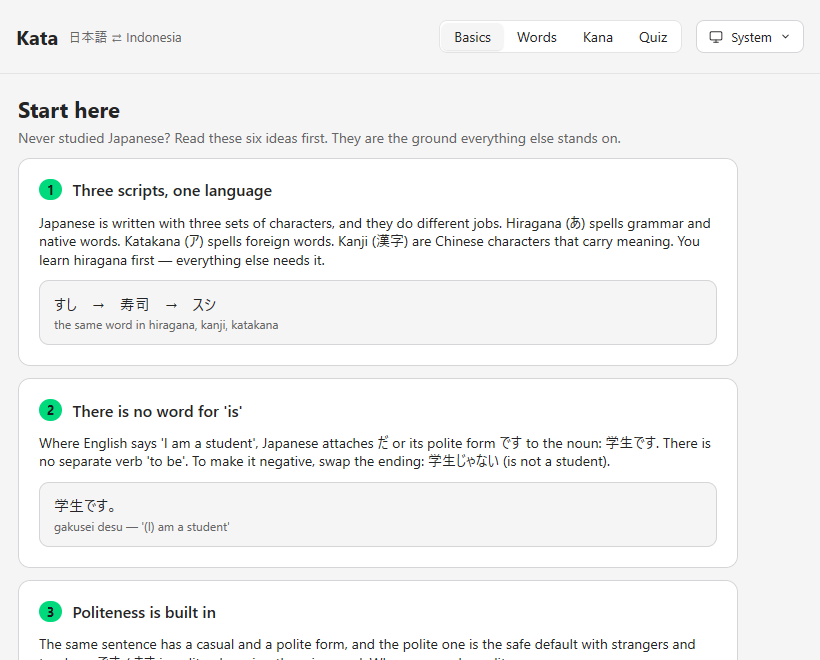
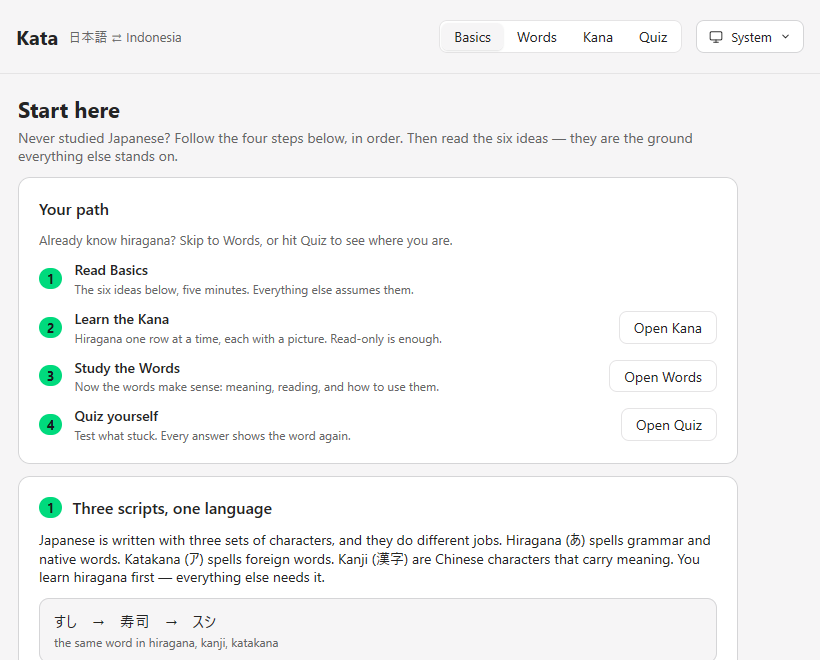
Add the where-to-start guide to the Basics page
The README's four-step path is now in the app, at the top of Basics, with a
button on each step that jumps straight to that page. A confused beginner
is one click from the right place.

Changed region(s): [[0.0305, 0.1818, 0.8841, 1.0], [0.7317, 0.5455, 0.8841, 0.6061], [0.7622, 0.4848, 0.8537, 0.5152]]

diff --git a/view_basics.go b/view_basics.go
@@ -2,21 +2,70 @@ package main
 
 import "github.com/egoist/mygo/ui"
 
-// basicsView is the first thing a beginner sees: the handful of ideas that
-// make Japanese make sense — the three scripts, that there is no word for
-// "is", politeness, particles, word order. Tae Kim's guide teaches this
-// way, by concept before vocabulary, and this page does the same.
+// basicsView is the first thing a beginner sees: where to start, then the
+// handful of ideas that make Japanese make sense — the three scripts, that
+// there is no word for "is", politeness, particles, word order. Tae Kim's
+// guide teaches this way, by concept before vocabulary, and this page does
+// the same.
 func (a *app) basicsView(c *ui.Context) {
 	t := c.Theme()
 	ui.Scroll(c).Grow(1).Padding(pageMargin, 18).Gap(12).Children(func() {
 		ui.Column(c).MaxWidth(contentMax).Gap(4).Children(func() {
 			ui.Text(c, "Start here").FontSize(22).FontWeight(650)
-			ui.Text(c, "Never studied Japanese? Read these six ideas first. "+
-				"They are the ground everything else stands on.").
+			ui.Text(c, "Never studied Japanese? Follow the four steps below, "+
+				"in order. Then read the six ideas — they are the ground "+
+				"everything else stands on.").
 				FontSize(14).TextColor(t.TextMuted)
 		})
+		a.pathCard(c)
 		for i, concept := range basics() {
 			a.conceptCard(c, i+1, concept)
+		}
+	})
+}
+
+// pathStep is one stage of the learning path: where to go, and why.
+type pathStep struct {
+	N     int
+	Title string
+	Body  string
+	Tab   int
+	Cue   string // the button label, when the step has a page to go to
+}
+
+// learningPath is the order a beginner should move through the app. It is
+// the same guide the README gives, kept here so it is in front of the
+// learner rather than in a file they will not open.
+func learningPath() []pathStep {
+	return []pathStep{
+		{1, "Read Basics", "The six ideas below, five minutes. Everything else assumes them.", TabBasics, ""},
+		{2, "Learn the Kana", "Hiragana one row at a time, each with a picture. Read-only is enough.", TabKana, "Open Kana"},
+		{3, "Study the Words", "Now the words make sense: meaning, reading, and how to use them.", TabStudy, "Open Words"},
+		{4, "Quiz yourself", "Test what stuck. Every answer shows the word again.", TabQuiz, "Open Quiz"},
+	}
+}
+
+// pathCard is the four-step guide, with a button on each step that jumps to
+// the page it names, so a confused beginner is one click from the right
+// place.
+func (a *app) pathCard(c *ui.Context) {
+	t := c.Theme()
+	card(c).MaxWidth(contentMax).Children(func() {
+		ui.Text(c, "Your path").FontSize(16).FontWeight(600)
+		hint(c, "Already know hiragana? Skip to Words, or hit Quiz to see where you are.")
+		for _, s := range learningPath() {
+			ui.Row(c).AlignItems(ui.Center).Gap(12).Children(func() {
+				ui.Textf(c, "%d", s.N).FontSize(13).FontWeight(700).
+					TextColor(t.AccentText).Background(t.Accent).
+					Radius(20).Padding(2, 8).Shrink(0)
+				ui.Column(c).Grow(1).Shrink(1).MinWidth(0).Gap(2).Children(func() {
+					ui.Text(c, s.Title).FontSize(14).FontWeight(600)
+					ui.Text(c, s.Body).FontSize(12).TextColor(t.TextMuted)
+				})
+				if s.Cue != "" {
+					ui.Button(c, s.Cue).Shrink(0).OnClick(func() { a.tab = s.Tab })
+				}
+			})
 		}
 	})
 }

diff --git a/view_test.go b/view_test.go
@@ -28,9 +28,33 @@ func TestBasicsTeachesFirst(t *testing.T) {
 	tt := ui.NewTester(a.view, 820, 660)
 	tt.Frame()
 
-	for _, want := range []string{"Start here", "Three scripts, one language", "Particles mark the job of a word"} {
+	for _, want := range []string{"Start here", "Your path", "Three scripts, one language", "Particles mark the job of a word"} {
 		if !tt.HasText(want) {
 			t.Errorf("the basics page is missing %q; texts are %q", want, tt.Texts())
+		}
+	}
+}
+
+// TestPathButtonsJumpToThePage checks the guide's buttons take a confused
+// beginner straight to the page each step names.
+func TestPathButtonsJumpToThePage(t *testing.T) {
+	for _, c := range []struct {
+		button string
+		want   int
+	}{
+		{"Open Kana", TabKana},
+		{"Open Words", TabStudy},
+		{"Open Quiz", TabQuiz},
+	} {
+		a := newTestApp()
+		a.tab = TabBasics
+		tt := ui.NewTester(a.view, 820, 660)
+		tt.Frame()
+		if err := tt.Click(c.button); err != nil {
+			t.Fatalf("no %q button: %v", c.button, err)
+		}
+		if a.tab != c.want {
+			t.Errorf("%q set tab %d, want %d", c.button, a.tab, c.want)
 		}
 	}
 }

diff --git a/layout_test.go b/layout_test.go
@@ -102,3 +102,21 @@ func TestHeaderKeepsTheNameAtMinimum(t *testing.T) {
 		t.Errorf("the wordmark is not shown at the minimum size; texts %q", tt.Texts())
 	}
 }
+
+// TestPathButtonsStayInsideAtMinimum checks the guide's buttons, which sit
+// at the end of a row, stay inside the narrowest window.
+func TestPathButtonsStayInsideAtMinimum(t *testing.T) {
+	a := newTestApp()
+	a.tab = TabBasics
+	tt := ui.NewTester(a.view, minWidth, 900)
+	tt.Frame()
+	for _, label := range []string{"Open Kana", "Open Words", "Open Quiz"} {
+		box, ok := tt.Find(label)
+		if !ok {
+			t.Fatalf("%q is missing at %dx%d", label, minWidth, 900)
+		}
+		if box.X+box.W > minWidth {
+			t.Errorf("%q ends at %.0f, past the %d-wide window", label, box.X+box.W, minWidth)
+		}
+	}
+}
